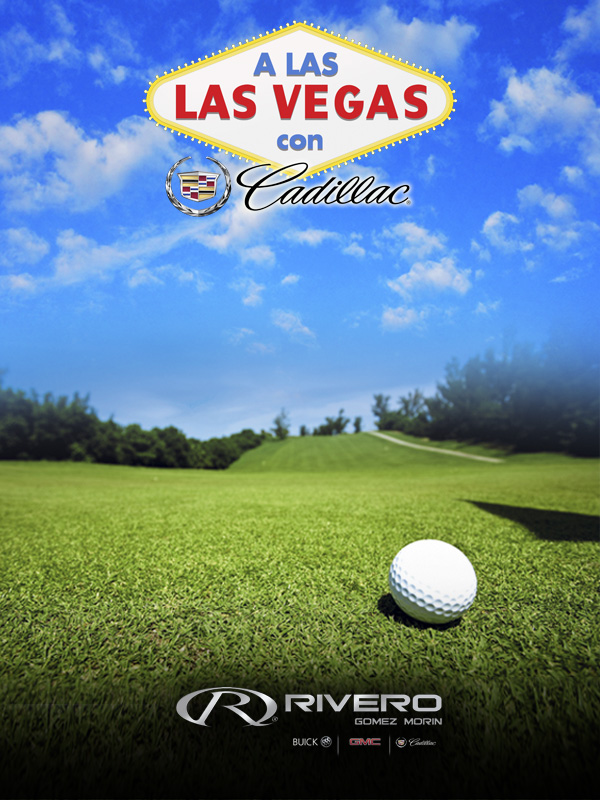
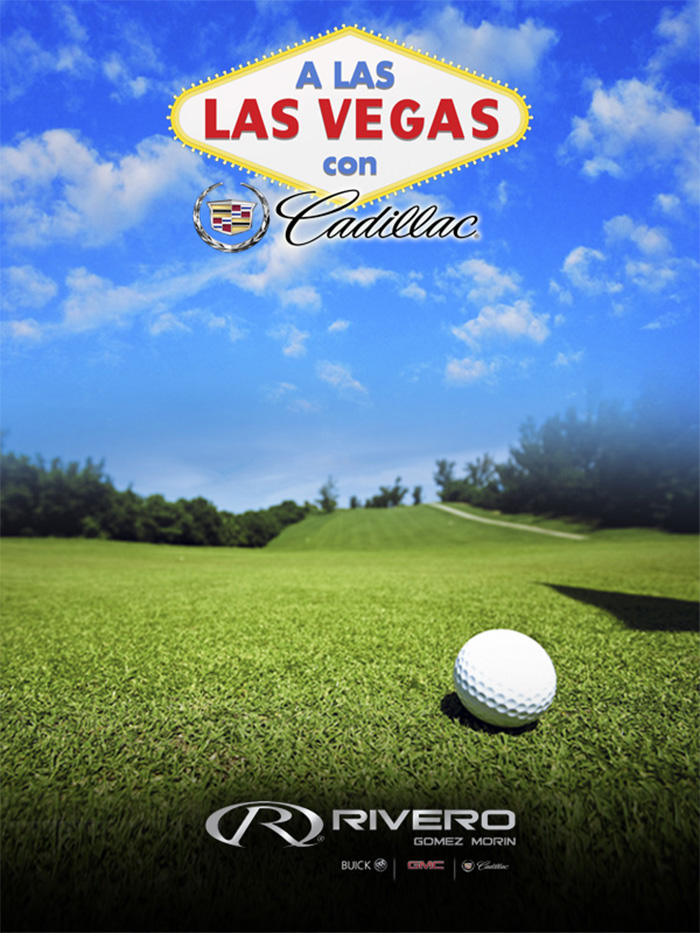
cambios

diff --git a/media/css/styles.css b/media/css/styles.css
@@ -10,10 +10,10 @@ body
 
 section.main
 {
-	width: 600px;
-	height: 800px;
+	width: 700px;
+	height: 933px;
 	margin:0 auto ;
-	border:1px solid red;
+	
 	text-align: center;
 	background: url(../img/bg.jpg);
 }

diff --git a/survey/settings.py b/survey/settings.py
@@ -3,7 +3,7 @@
 
 import os 
 
-DEBUG = False
+DEBUG = True
 TEMPLATE_DEBUG = DEBUG
 
 # Make filepaths relative to settings.
